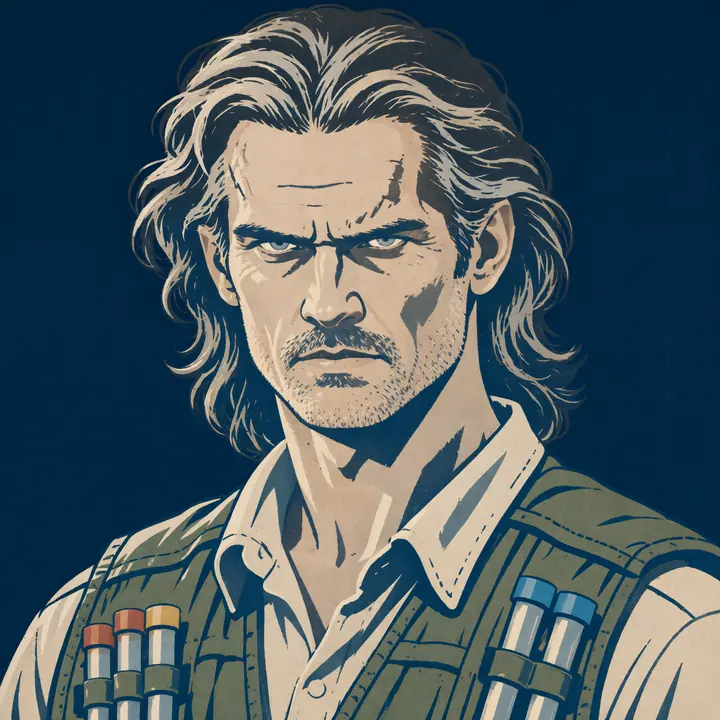
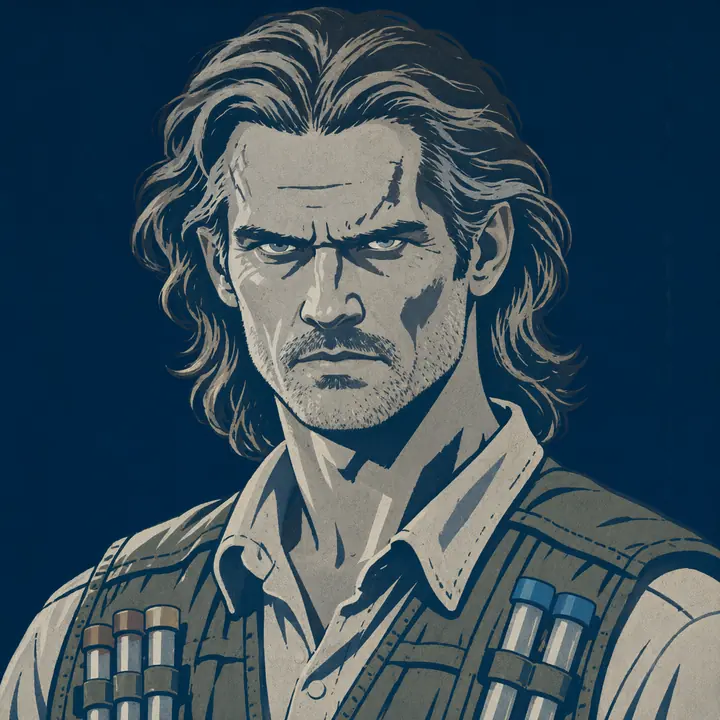
Build from dbec13f

diff --git a/sw.js b/sw.js
@@ -1,7 +1,7 @@
 /* Landfall — service worker. Keeps what has been fetched so a second visit loads from the device.
    Pictures, music, sound effects and fonts: from the cache first (they do not change under a name). The page, scripts and
    styles: from the network first, so a new build is picked up, falling back to the cache when offline. */
-const CACHE = 'landfall-v52';   // bump whenever a picture, cue or font is replaced under the same name
+const CACHE = 'landfall-v53';   // bump whenever a picture, cue or font is replaced under the same name
 self.addEventListener('install', e => self.skipWaiting());
 self.addEventListener('activate', e => e.waitUntil(caches.keys().then(ks => Promise.all(ks.filter(k => k !== CACHE).map(k => caches.delete(k)))).then(() => self.clients.claim())));
 self.addEventListener('fetch', e => {
